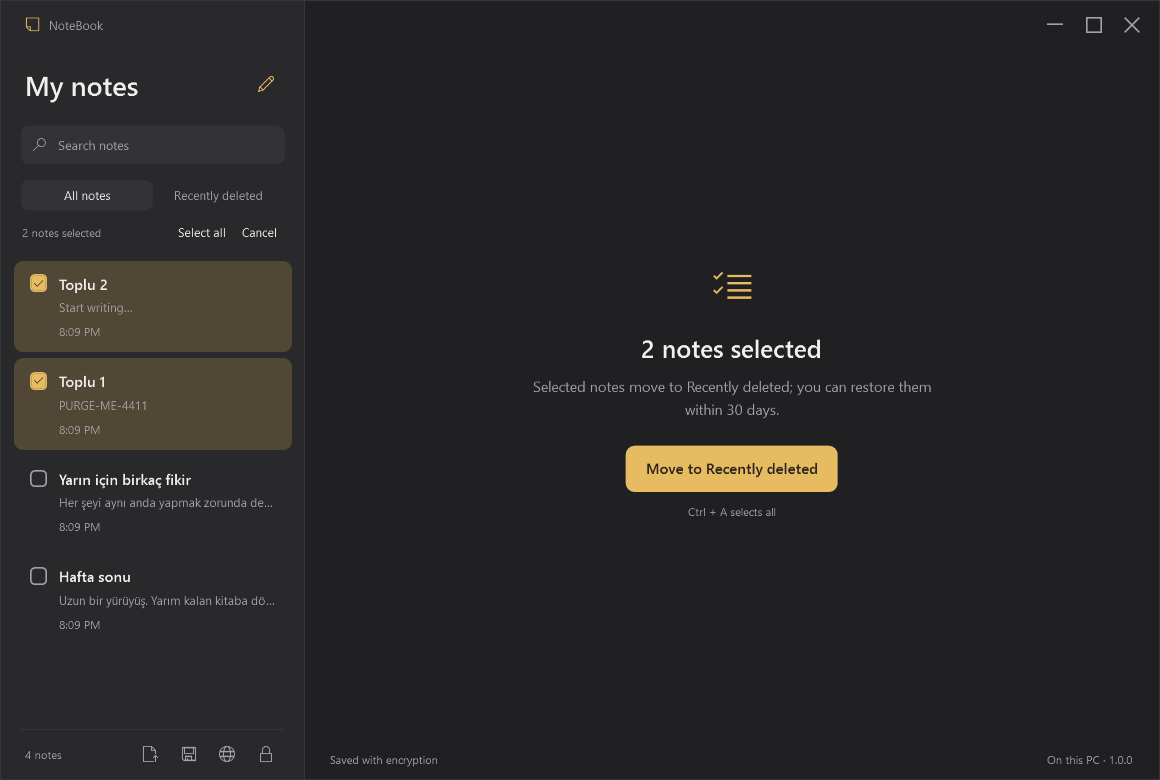
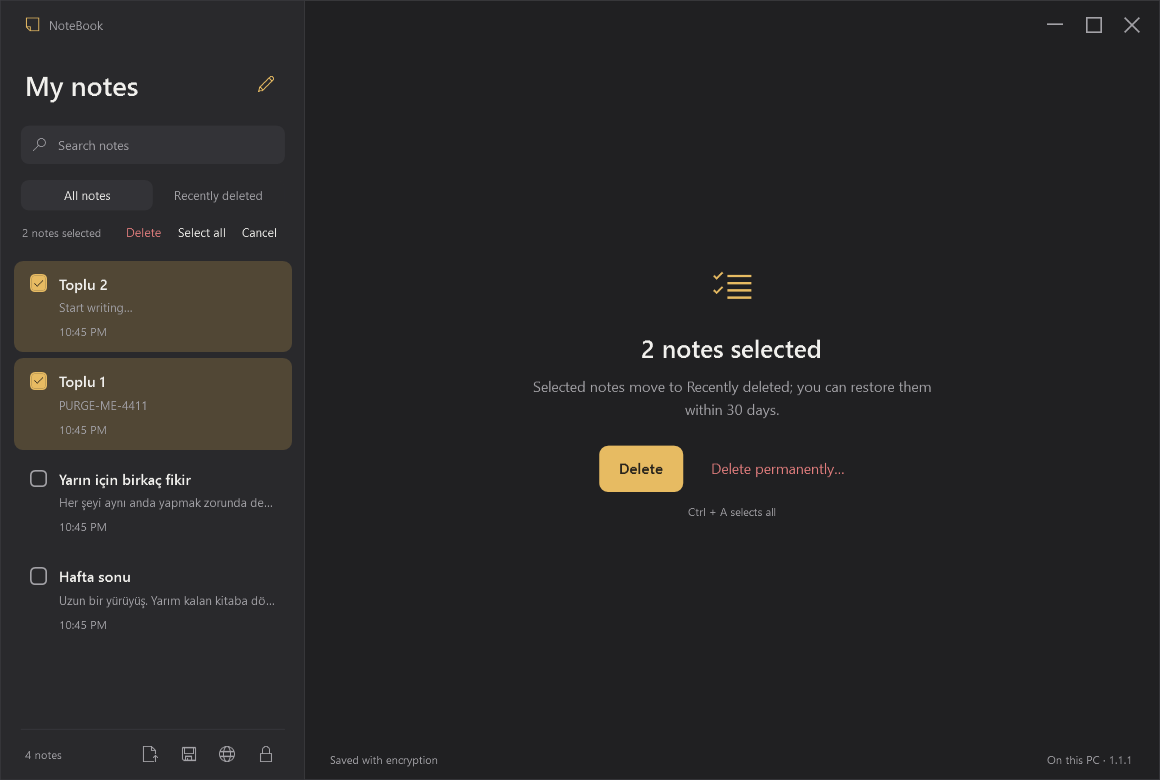
Add explicit Delete buttons for bulk selection
Select mode now shows a Delete button (sidebar and center panel) and a
Delete permanently… action from All notes as well, not only from Recently
deleted. Toolbar and context menu say Delete. Shift+Delete purges.

Changed region(s): [[0.4966, 0.5538, 0.7448, 0.6462], [0.0621, 0.5231, 0.0931, 0.5538], [0.0621, 0.4, 0.0931, 0.4308]]

diff --git a/src/Notlar/MainWindow.xaml b/src/Notlar/MainWindow.xaml
@@ -32,6 +32,7 @@
           <DockPanel Margin="2,10,0,0">
             <Button x:Name="SelectButton" Content="{local:T Select}" FontSize="12" Padding="8,4" DockPanel.Dock="Right" Click="SelectModeClick"/>
             <Button x:Name="SelectAllButton" Content="{local:T SelectAll}" FontSize="12" Padding="8,4" DockPanel.Dock="Right" Click="SelectAllClick" Visibility="Collapsed"/>
+            <Button x:Name="SelectionDeleteButton" Content="{local:T Delete}" FontSize="12" Padding="8,4" DockPanel.Dock="Right" Foreground="{DynamicResource Danger}" Click="DeleteClick" Visibility="Collapsed"/>
             <TextBlock x:Name="SelectionCount" FontSize="11" Foreground="{DynamicResource Muted}" VerticalAlignment="Center"/>
           </DockPanel>
           <TextBlock x:Name="TrashNotice" Text="" FontSize="11" Foreground="{DynamicResource Muted}" Margin="4,8,0,0" Visibility="Collapsed" TextWrapping="Wrap"/>
@@ -41,7 +42,7 @@
             <ListBox.ContextMenu><ContextMenu>
               <MenuItem x:Name="MenuPin" Header="{local:T Pin}" Click="PinClick"/>
               <MenuItem x:Name="MenuExport" Header="{local:T ExportTxtMenu}" InputGestureText="Ctrl+Shift+S" Click="ExportClick"/>
-              <MenuItem x:Name="MenuDelete" Header="{local:T MoveToTrash}" InputGestureText="Delete" Click="DeleteClick"/>
+              <MenuItem x:Name="MenuDelete" Header="{local:T Delete}" InputGestureText="Delete" Click="DeleteClick"/>
               <MenuItem x:Name="MenuRestore" Header="{local:T Restore}" Click="RestoreClick"/>
               <MenuItem x:Name="MenuPurge" Header="{local:T DeletePermanentlyMenu}" Style="{StaticResource DangerMenuItem}" Click="PurgeClick"/>
             </ContextMenu></ListBox.ContextMenu>
@@ -99,7 +100,7 @@
         <Grid Grid.Row="0" Margin="16,0,8,0">
           <StackPanel x:Name="NoteActions" Orientation="Horizontal" VerticalAlignment="Center" shell:WindowChrome.IsHitTestVisibleInChrome="True">
             <Button x:Name="PinButton" Content="&#xE718;" Style="{StaticResource IconButton}" ToolTip="{local:T PinNote}" AutomationProperties.Name="{local:T PinNote}" Click="PinClick"/>
-            <Button x:Name="DeleteButton" Content="&#xE74D;" Style="{StaticResource IconButton}" ToolTip="{local:T MoveToTrash}" AutomationProperties.Name="{local:T DeleteNote}" Click="DeleteClick"/>
+            <Button x:Name="DeleteButton" Content="&#xE74D;" Style="{StaticResource IconButton}" ToolTip="{local:T Delete}" AutomationProperties.Name="{local:T DeleteNote}" Click="DeleteClick"/>
             <Button x:Name="RestoreButton" Content="{local:T Restore}" FontSize="12" Foreground="{DynamicResource Accent}" Visibility="Collapsed" Click="RestoreClick"/>
             <Button x:Name="PurgeButton" Content="{local:T DeletePermanently}" FontSize="12" Foreground="{DynamicResource Danger}" Visibility="Collapsed" ToolTip="{local:T DeletePermanentlyHint}" Click="PurgeClick"/>
             <Button x:Name="ExportButton" Content="&#xE898;" Style="{StaticResource IconButton}" ToolTip="{local:T ExportTxt}" AutomationProperties.Name="{local:T ExportTxt}" Click="ExportClick"/>
@@ -134,9 +135,9 @@
           <TextBlock x:Name="SelectionHeading" Text="{local:T SelectionPrompt}" FontSize="25" FontWeight="SemiBold" TextAlignment="Center"/>
           <TextBlock x:Name="SelectionDescription" Text="" FontSize="14" Foreground="{DynamicResource Muted}" TextWrapping="Wrap" TextAlignment="Center" LineHeight="23" Margin="0,12,0,24"/>
           <StackPanel Orientation="Horizontal" HorizontalAlignment="Center">
-            <Button x:Name="BulkDeleteButton" Content="{local:T MoveToTrash}" Style="{StaticResource Primary}" Click="DeleteClick"/>
+            <Button x:Name="BulkDeleteButton" Content="{local:T Delete}" Style="{StaticResource Primary}" Click="DeleteClick"/>
             <Button x:Name="BulkRestoreButton" Content="{local:T Restore}" Style="{StaticResource Primary}" Visibility="Collapsed" Click="RestoreClick"/>
-            <Button x:Name="BulkPurgeButton" Content="{local:T DeletePermanently}" Foreground="{DynamicResource Danger}" Padding="20,13" Margin="8,0,0,0" Visibility="Collapsed" Click="PurgeClick"/>
+            <Button x:Name="BulkPurgeButton" Content="{local:T DeletePermanentlyMenu}" Foreground="{DynamicResource Danger}" Padding="20,13" Margin="8,0,0,0" Click="PurgeClick"/>
           </StackPanel>
           <TextBlock Text="{local:T SelectAllHint}" FontSize="11" Foreground="{DynamicResource Muted}" HorizontalAlignment="Center" Margin="0,12,0,0"/>
         </StackPanel>

diff --git a/src/Notlar/MainWindow.xaml.cs b/src/Notlar/MainWindow.xaml.cs
@@ -97,6 +97,7 @@ public partial class MainWindow : Window
         // Delete acts on the list unless a text box (search, title, body) owns the keyboard.
         if (Keyboard.Modifiers == ModifierKeys.None && e.Key == Key.Delete && Keyboard.FocusedElement is not TextBoxBase && (selecting || NoteList.IsKeyboardFocusWithin || current != null))
         { if (trash) PurgeClick(this, e); else DeleteClick(this, e); e.Handled = true; return; }
+        if (Keyboard.Modifiers == ModifierKeys.Shift && e.Key == Key.Delete && Keyboard.FocusedElement is not TextBoxBase && (selecting || current != null)) { PurgeClick(this, e); e.Handled = true; return; }
         if (Keyboard.Modifiers == ModifierKeys.None && e.Key == Key.Escape && selecting) { SetSelecting(false); e.Handled = true; return; }
         if (Keyboard.Modifiers == (ModifierKeys.Control | ModifierKeys.Shift) && e.Key == Key.S) { ExportClick(this, e); e.Handled = true; return; }
         if (Keyboard.Modifiers != ModifierKeys.Control) return;
@@ -169,7 +170,9 @@ public partial class MainWindow : Window
         SelectionHeading.Text = count == 0 ? L10n.T("SelectionPrompt") : L10n.Count("SelectedCountOne", "SelectedCountMany", count);
         SelectionDescription.Text = trash ? L10n.T("SelectionDescriptionTrash") : L10n.T("SelectionDescription", TrashPolicy.RetentionDays);
         BulkDeleteButton.Visibility = trash ? Visibility.Collapsed : Visibility.Visible;
-        BulkRestoreButton.Visibility = BulkPurgeButton.Visibility = trash ? Visibility.Visible : Visibility.Collapsed;
+        BulkRestoreButton.Visibility = trash ? Visibility.Visible : Visibility.Collapsed;
+        SelectionDeleteButton.Visibility = selecting && !trash ? Visibility.Visible : Visibility.Collapsed;
+        SelectionDeleteButton.IsEnabled = count > 0;
         BulkDeleteButton.IsEnabled = BulkRestoreButton.IsEnabled = BulkPurgeButton.IsEnabled = count > 0;
     }
     private void Touch()
@@ -261,8 +264,8 @@ public partial class MainWindow : Window
         MenuPin.Visibility = MenuExport.Visibility = single ? Visibility.Visible : Visibility.Collapsed;
         MenuPin.Header = L10n.T(targets[0].Pinned ? "UnpinNote" : "Pin");
         MenuDelete.Visibility = trash ? Visibility.Collapsed : Visibility.Visible;
-        MenuRestore.Visibility = MenuPurge.Visibility = trash ? Visibility.Visible : Visibility.Collapsed;
-        MenuDelete.Header = targets.Count == 1 ? L10n.T("MoveToTrash") : L10n.T("MoveManyToTrash", targets.Count);
+        MenuRestore.Visibility = trash ? Visibility.Visible : Visibility.Collapsed;
+        MenuDelete.Header = targets.Count == 1 ? L10n.T("Delete") : L10n.T("MoveManyToTrash", targets.Count);
         MenuRestore.Header = targets.Count == 1 ? L10n.T("Restore") : L10n.T("RestoreMany", targets.Count);
         MenuPurge.Header = targets.Count == 1 ? L10n.T("DeletePermanentlyMenu") : L10n.T("PurgeMany", targets.Count);
     }
@@ -297,10 +300,10 @@ public partial class MainWindow : Window
     private void PurgeClick(object sender, RoutedEventArgs e)
     {
         var notes = Targets();
-        if (notes.Count == 0 || !trash || !SaveNow()) return;
+        if (notes.Count == 0 || !SaveNow()) return;
         string message = notes.Count == 1 ? L10n.T("ConfirmPurgeOne", notes[0].DisplayTitle) : L10n.T("ConfirmPurgeMany", notes.Count);
         if (!ConfirmDestructive(message)) return;
-        TrashPolicy.Purge(session.Book, notes); purged = true; dirty = true;
+        TrashPolicy.Delete(notes, DateTimeOffset.UtcNow); TrashPolicy.Purge(session.Book, notes); purged = true; dirty = true;
         if (!SaveNow()) return;
         StatusText.Text = L10n.Count("PurgedOne", "PurgedMany", notes.Count);
         lastDeleted.RemoveAll(notes.Contains);

diff --git a/tests/Notlar.Tests/Program.cs b/tests/Notlar.Tests/Program.cs
@@ -343,6 +343,12 @@ static class Program
             window.RaiseEvent(new KeyEventArgs(Keyboard.PrimaryDevice, PresentationSource.FromVisual(window), 0, Key.Delete) { RoutedEvent = UIElement.PreviewKeyDownEvent }); Pump();
             Check(session.Book.Notes.Count(n => n.Deleted) == 4 && noteList.SelectionMode == SelectionMode.Single, "Delete key removes the checked notes even when a toolbar button has focus");
             Click(window, "UndoDelete"); Check(session.Book.Notes.All(n => !n.Deleted), "Undo after keyboard bulk delete restores everything");
+            Check(Find<Button>(window, "BulkDeleteButton").Content as string == L10n.T("Delete") && Find<Button>(window, "DeleteButton").ToolTip as string == L10n.T("Delete"), "The primary bulk action is plainly labeled Delete");
+            Click(window, "NewButton"); title.Text = "Geçici"; window.SaveNow();
+            Click(window, "SelectButton"); noteList.SelectedItems.Add(session.Book.Notes.First(n => n.Title == "Geçici")); Pump();
+            Check(Find<Button>(window, "SelectionDeleteButton").IsVisible && Find<Button>(window, "BulkPurgeButton").IsVisible && Find<Button>(window, "BulkPurgeButton").IsEnabled, "Select mode offers Delete in the sidebar and permanent delete from All notes too");
+            window.ConfirmDestructive = _ => true; Click(window, "BulkPurgeButton");
+            Check(session.Book.Notes.Count == 4 && session.Book.Notes.All(n => n.Title != "Geçici") && noteList.SelectionMode == SelectionMode.Single, "Permanent delete from All notes removes the checked note outright");
             body.Focus(); Pump();
             window.RaiseEvent(new KeyEventArgs(Keyboard.PrimaryDevice, PresentationSource.FromVisual(window), 0, Key.Delete) { RoutedEvent = UIElement.PreviewKeyDownEvent }); Pump();
             Check(session.Book.Notes.All(n => !n.Deleted), "Delete key inside the editor edits text instead of deleting the note");
